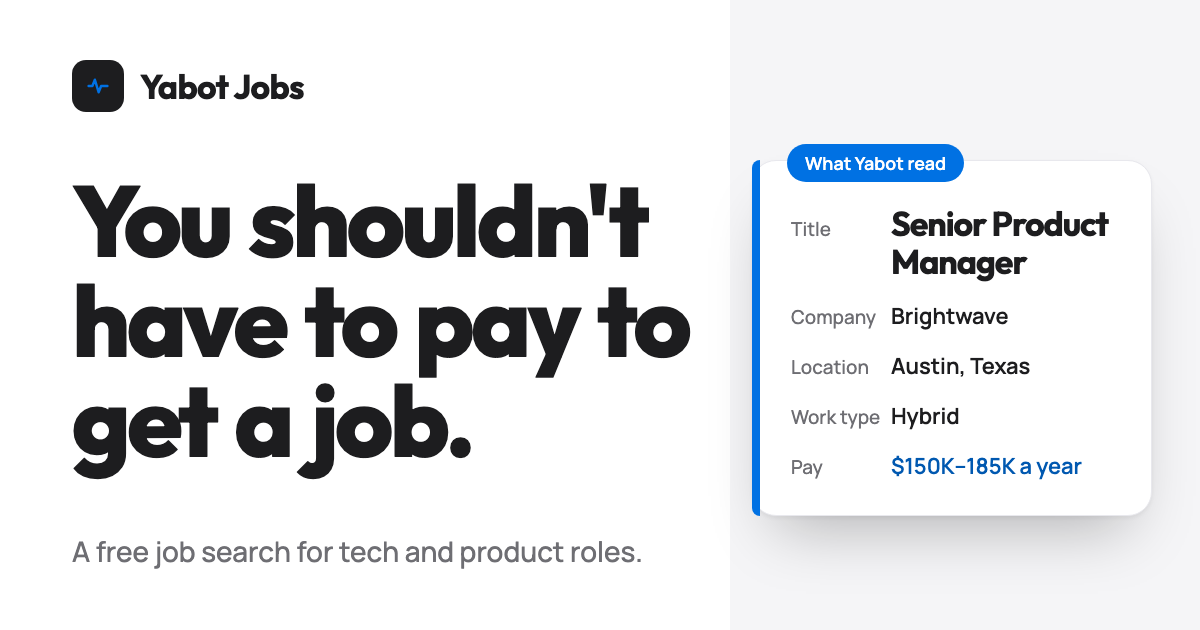
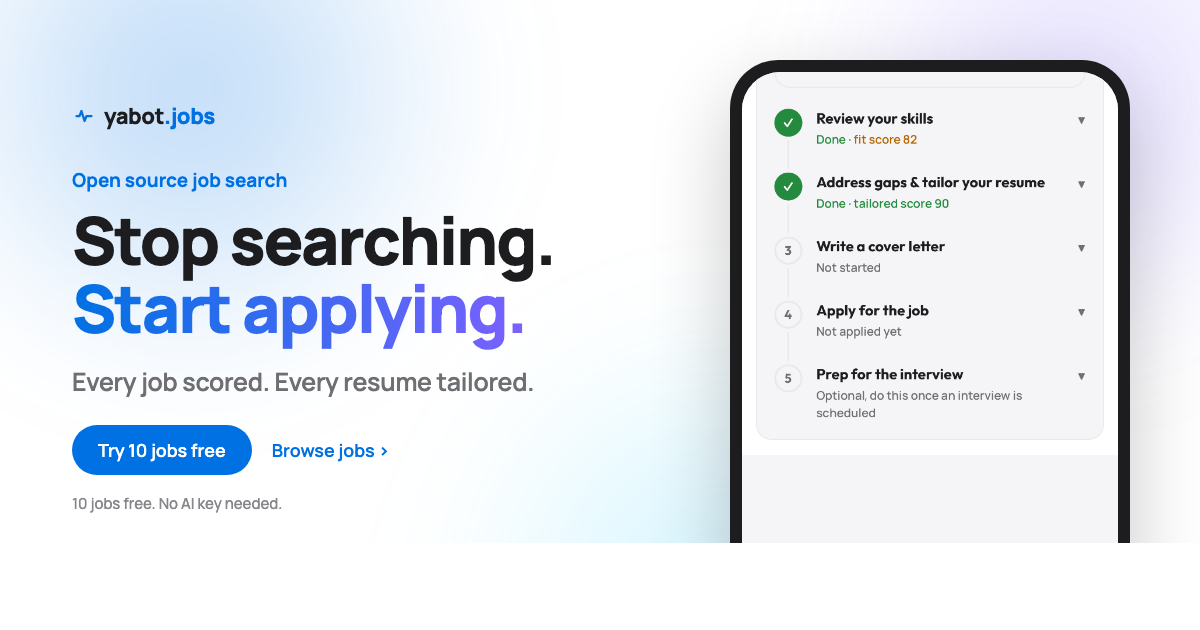
Regenerate the OG image from the new landing page design
The old og-image.png still showed the retired "You shouldn't have to
pay to get a job." hero and card mockup. Rebuilds it to mirror the
current landing page hero: the yabot.jobs wordmark, the blue/violet/
cyan glow background, "Stop searching. Start applying.", and a phone
crop of the real apply-page steps screenshot.

Claude-Session: https://claude.ai/code/session_011DdvDJ9MGL16Lfhk5zkcrd

diff --git a/index.html b/index.html
@@ -71,8 +71,6 @@
       content="Every job scored. Every resume tailored. Jobs pulled daily from thousands of company career pages, in every sector. 10 jobs free, no AI key needed."
     />
     <meta property="og:url" content="https://yabot.jobs/" />
-    <!-- TODO: og-image.png still carries the retired "You shouldn't have to pay to get a
-         job." tagline. Regenerate it around "Searching for a job should be free." -->
     <meta property="og:image" content="https://yabot.jobs/og-image.png" />
     <meta property="og:image:width" content="1200" />
     <meta property="og:image:height" content="630" />
